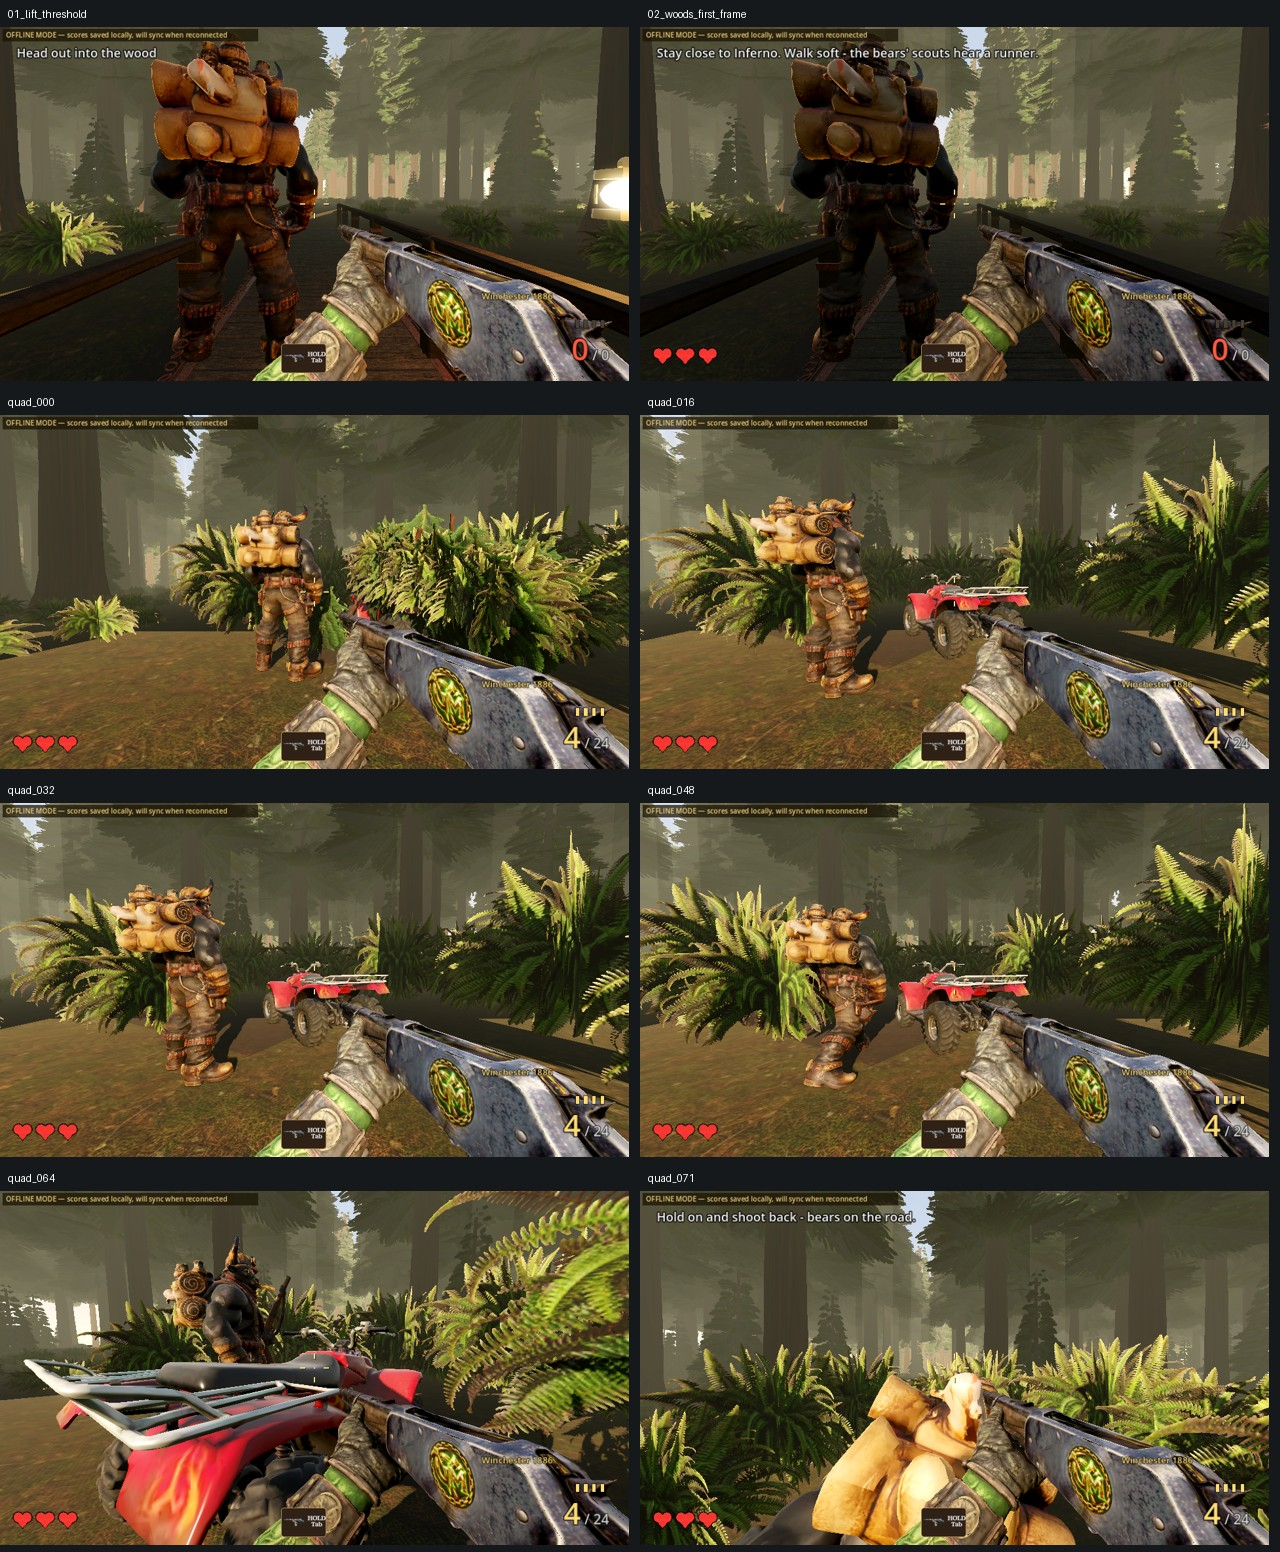
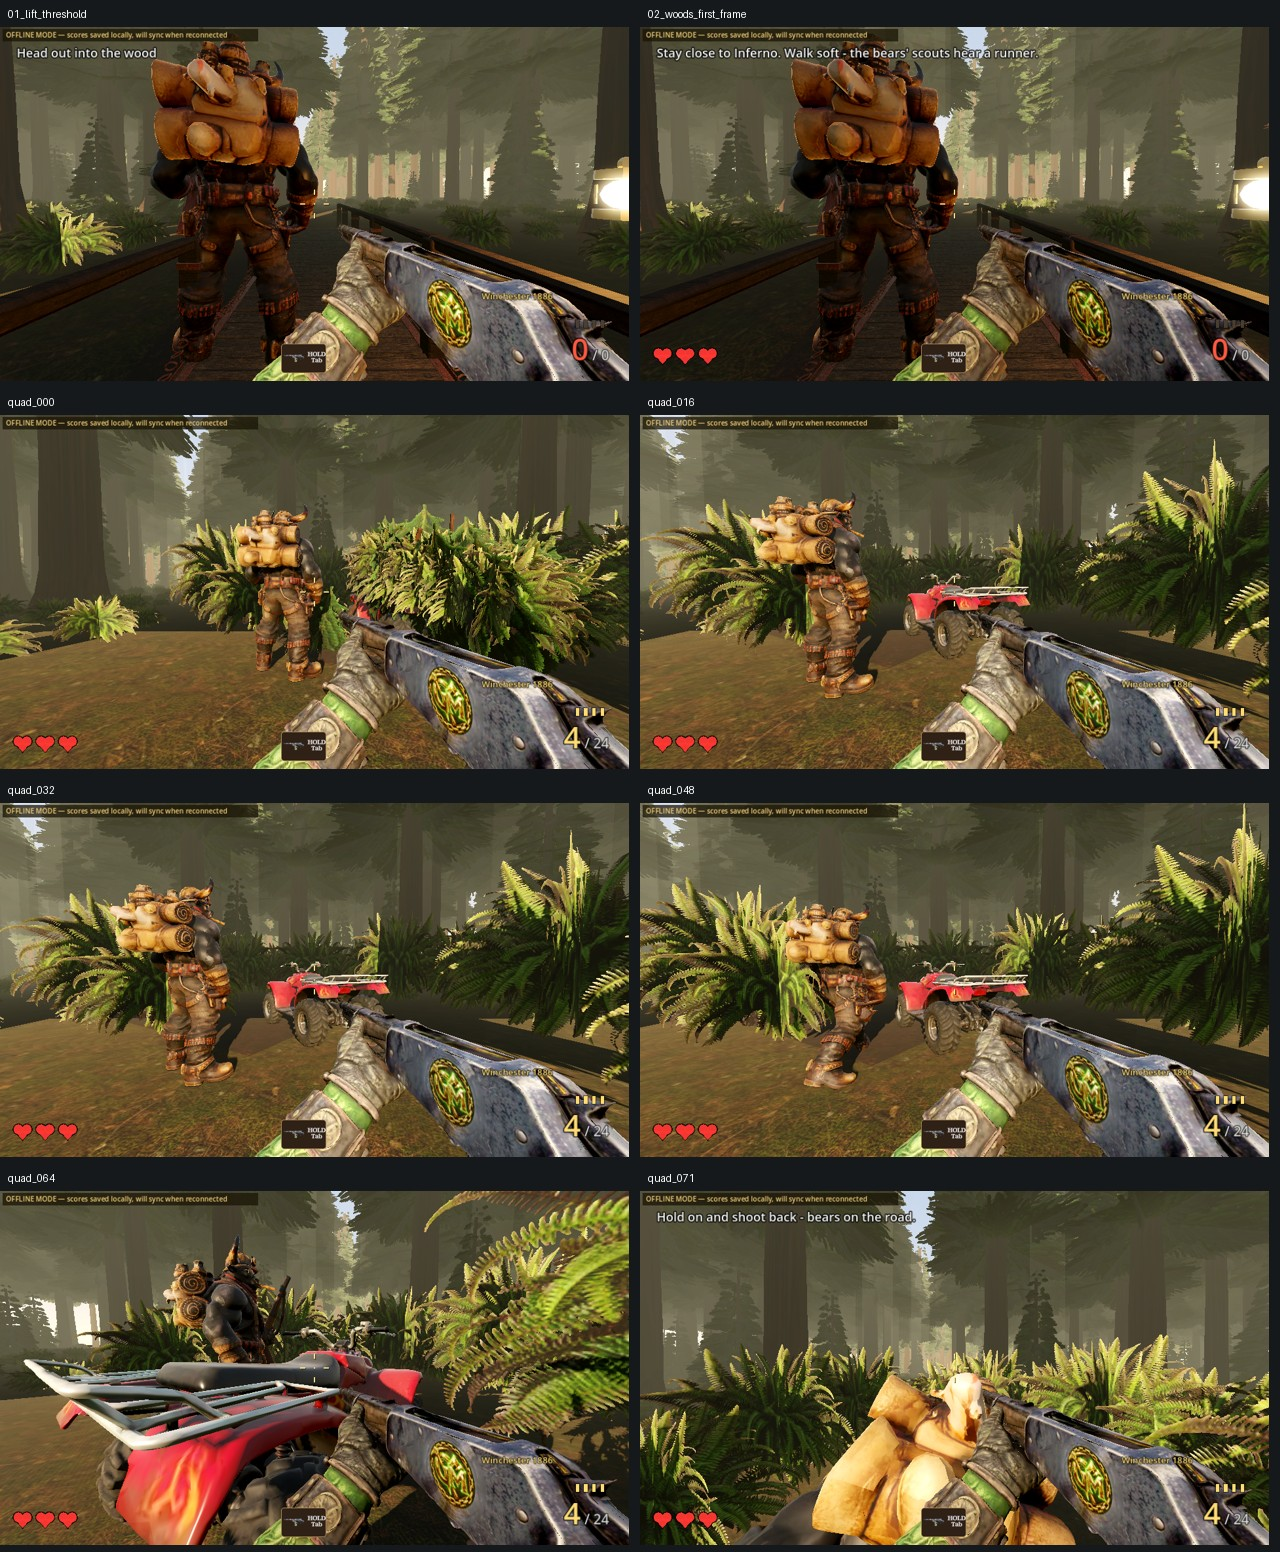
fix: preserve the exit lantern across the forest handoff

diff --git a/STATUS.md b/STATUS.md
@@ -1,6 +1,6 @@
 # 🌿 Lil Blunt: The Smoke Realm — Live Status Report
 
-**TRANSITION REPAIRS — implemented, release verification in progress (2026-10-23).** Founder document “Transitions work”: boss NFT announcements removed while keeping jingle/card/ICP; Episode 1–2 critical warm queue 115 → 27 resources and dissolve 0.60 → 0.18 s; handle dialogue removed with the physical lever preserved; lift exterior now uses the playable forest's three near slices, bridge and daylight, with player/Bull/gaze preserved through the doorway and camera initialized before the first visible frame; quad speech overlaps reveal/approach/climb, and actual motion completion gates riding. Three skills installed for both agents. Pinned compile and the new regression pass: reveal-to-ride 11.92 s, maximum 60 Hz camera movement 0.098 m, no dialogue self-interruption. Actual Compatibility session-root doorway and complete reveal-to-ride frames inspected. Remaining release gates and exact deployment receipt: `docs/founder-feedback/2026-10-23_transitions.md`.
+**TRANSITION REPAIRS — implemented locally; publishing blocked by automatic approval review (2026-10-23).** Founder document “Transitions work”: boss NFT announcements removed while keeping jingle/card/ICP; Episode 1–2 critical warm queue 115 → 27 resources and dissolve 0.60 → 0.18 s; handle dialogue removed with the physical lever preserved; lift exterior now uses the playable forest's three near slices, bridge and daylight, with player/Bull/gaze preserved through the doorway and camera initialized before the first visible frame; quad speech overlaps reveal/approach/climb, and actual motion completion gates riding. Three skills installed for both agents. Pinned compile and the new regression pass: reveal-to-ride 11.92 s, maximum 60 Hz camera movement 0.098 m, no dialogue self-interruption. Actual Compatibility session-root doorway and complete reveal-to-ride frames inspected. Remaining release gates and exact deployment receipt: `docs/founder-feedback/2026-10-23_transitions.md`.
 
 **TOWNSPEOPLE: EVERY PERSON IS NOW THEMSELVES, AND THEY LIVE IN THEIR TOWN BEFORE YOU ARRIVE (2026-10-22; founder: "the townsmen people all look the same", "they appeared only after Lil Blunt got off the bike").** All 14 supplied figures (13 townsfolk + the jail prisoner) were rebuilt with Meshy, each from their OWN T-pose photo in the Drive folder (the grandparents photo split into two people): textured + PBR, rigged, with their own idle, walk style, talk, greeting, look-around and alert clips; the boy, both girls and the youth also PLAY (jump rope, happy jumps) as a new activity. The rancher was re-rolled once (Meshy posed him as a gunslinger), and the two children's "excited walk" acting clips were replaced by real walk cycles. Walks are stride-matched (each clip's speed measured from its foot motion) so feet don't slide. Presence fix: the ride into town now builds the townsfolk too - they are out in the street going about their day while the quad rolls in, step aside to the verge for the quad, and the town chamber takes over the exact same people/places/errands at the cut (no respawn). Meshy spend: 897 credits of the approved budget + 6 for the two walk re-bakes (balance ~637). Pipeline `tools/meshy/townfolk_batch.py`, manifest + contact sheets `design/ep2/town/meshy-cast-20261022/`. Gates: town people, town autonomy (32 checks incl. new ride-in handoff + make-way), gold town, interlude chain pass. RunPod: new pod `gm-town-motion` (RTX 4090, $0.89/h) started for the next motion pass.
 

diff --git a/docs/founder-feedback/2026-10-23_transitions.md b/docs/founder-feedback/2026-10-23_transitions.md
@@ -23,3 +23,10 @@ No assets, paid generation, canister/economy rules, title files or access creden
 - The actual session root performs the captured doorway handoff. The entire quad reveal-to-ride action is sampled from the actual 3D chamber; temporal continuity is separately checked at 60 Hz. [Board](../episode2-quality/transitions-2026-10-23/transition-board.jpg), [sequence](../episode2-quality/transitions-2026-10-23/quad-sequence.gif).
 - Optional legacy EP2_SMELTING_FACILITY test has one inherited material-name assertion failure. Unchanged baseline `Ep2BullHero.PAINTED_GLB = true` bypasses the retired `InfernoBullRestoredPBR` material that this old test requires. The shader/map sample itself has 885 nonmetal samples (threshold 700). Neither the test nor character materials are changed here; this legacy gate is absent from the release CI block. Its remaining facility assertions pass.
 - No paid jobs or external model decisions were needed. Security, fresh-pack export and production/public verification follow below.
+
+## Local export and publication state
+
+- Security sentinel: 18 checks, zero blockers. Founder title lock: PASS.
+- Fresh-clone import/export of source `ca5e8c53`: 199168160 B main pack, below 199229440 B by 61280 B. Current-cache export using the current CI preset: 199200848 B. Nonthreaded export, zero script errors. Local Chromium WebGL boot and streamed extras mount: PASS (HTTP 200).
+- Final visual follow-up moves the exit lantern into the shared bridge builder; it no longer disappears in the doorway cut. Final doorway frames inspected again. No source assets/import settings changed. The focused compile/transition/interlude checks are being repeated for this follow-up, with a final source export next.
+- Automatic approval review rejected the attempted `git push -u origin codex/transition-flow-20261023`, stating that external code/data disclosure and repository mutation need explicit user authorization. No push/deployment was performed through another route. Publication remains blocked pending that approval.
